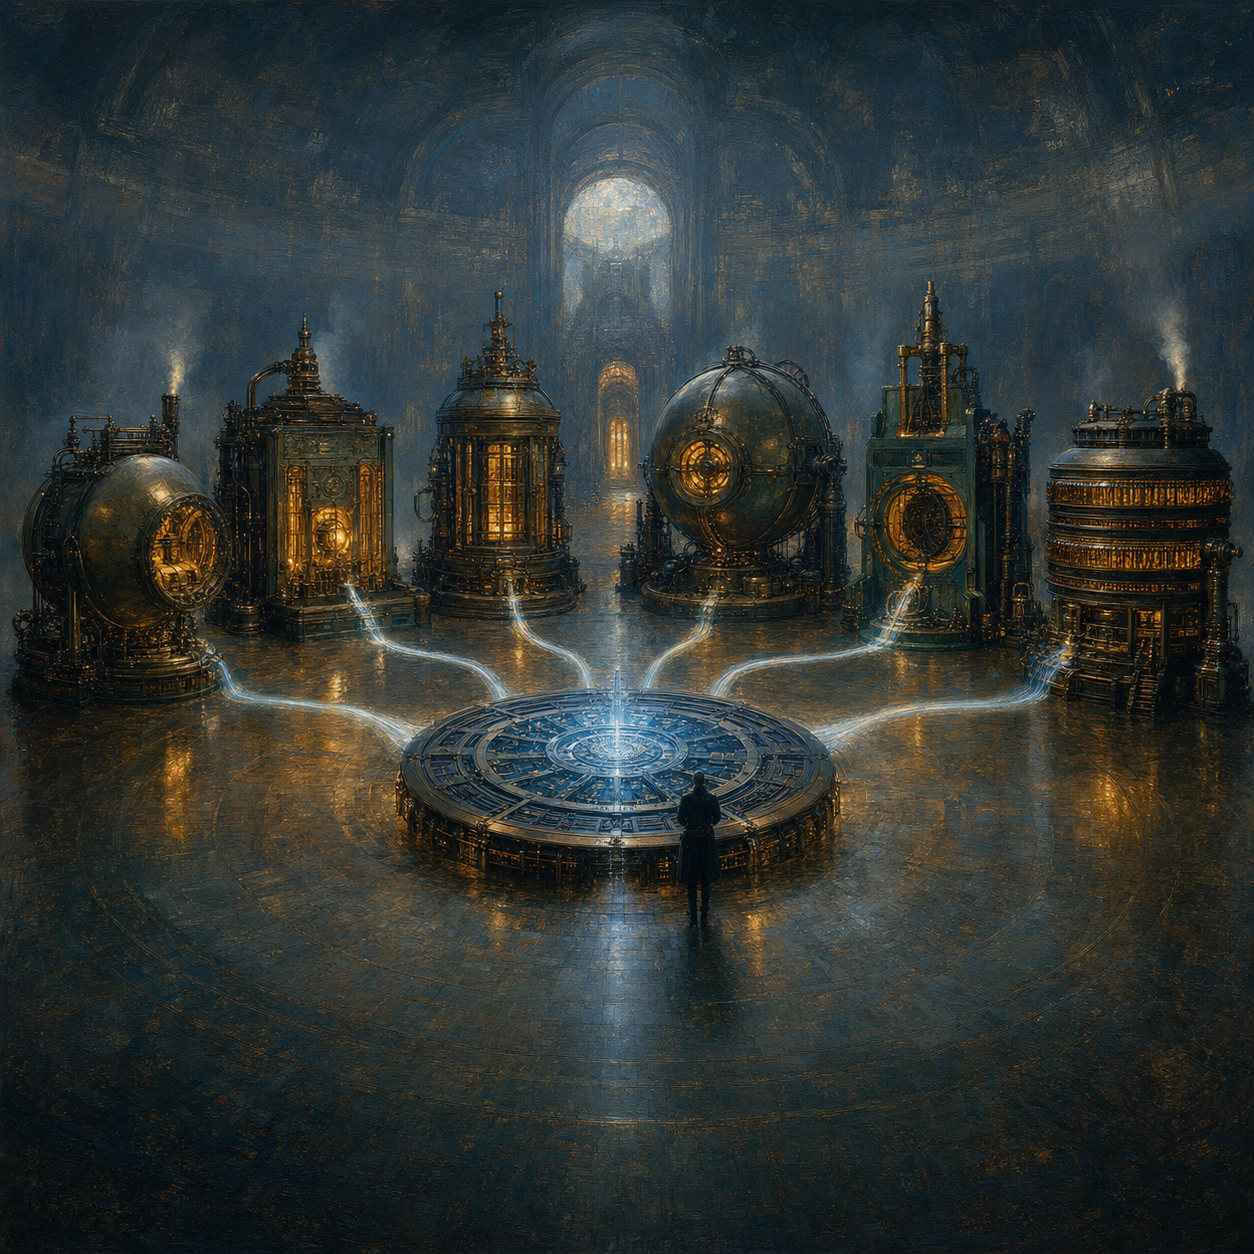
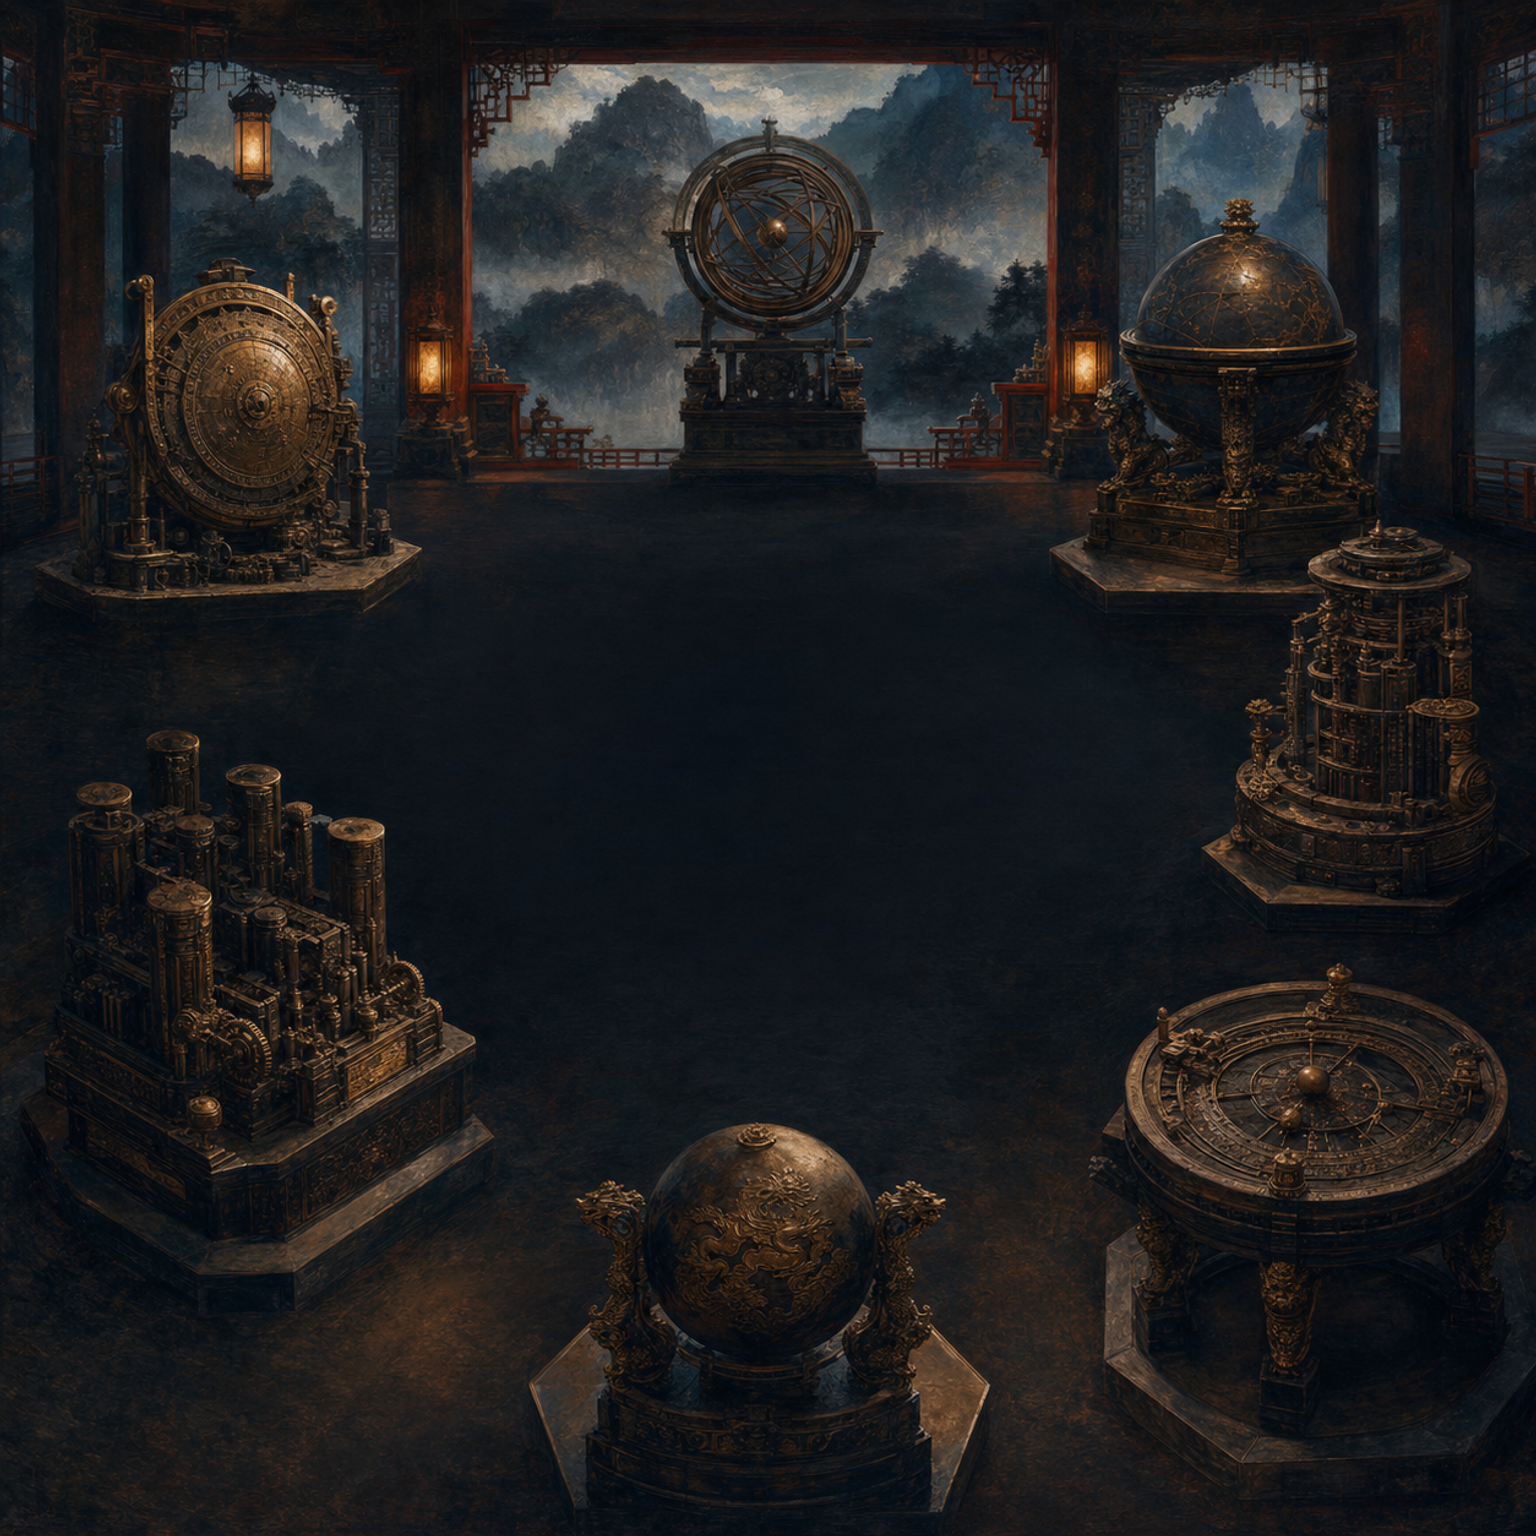
Refresh xLLM launch artwork and social assets

diff --git a/posts/social-media-xllm-cluster-architecture-ai-inference.md b/posts/social-media-xllm-cluster-architecture-ai-inference.md
@@ -1,0 +1,104 @@
+# Social Media Options: xLLM Cluster Architecture for AI Inference
+
+Article: https://ylanglabs.com/blogs/xllm-cluster-architecture-ai-inference
+Post image: `/static/images/blogs/xllm-cluster-architecture-ai-inference/postImage.png`
+
+## Option 1: Chinese accelerators as first-class targets
+
+Chinese AI accelerators are usually treated as ports from a CUDA-first world. xLLM starts there.
+
+It is designed for enterprise model serving across Ascend, Cambricon, Moore Threads, Hygon, MetaX, and Iluvatar, combining cluster-level control with hardware-specific execution.
+
+The interesting question is not whether xLLM is universally fastest. It is whether it can produce more SLO-compliant tokens from the hardware an enterprise already owns.
+
+Notes: https://ylanglabs.com/blogs/xllm-cluster-architecture-ai-inference
+
+## Option 2: The serving-economics thesis
+
+The cheapest generated token is not always the most useful metric.
+
+If more throughput pushes TTFT or TPOT outside the target, it does not improve production capacity. xLLM's economic thesis is that better scheduling, KV reuse, MoE balancing, and hardware-specific execution can lower the cost per SLO-compliant token.
+
+The paper measures throughput and latency, not money. That makes the architecture worth testing, not the economics proven.
+
+Deep dive: https://ylanglabs.com/blogs/xllm-cluster-architecture-ai-inference
+
+## Option 3: Put the 12x benchmark in context
+
+“12x throughput” sounds like a universal winner. It is not.
+
+xLLM's authors report an average 12x improvement over vLLM-Ascend for the tested DeepSeek-R1 configurations on 16 Ascend 910B accelerators. Change the backend, hardware, workload, or TPOT limit and the ranking may change.
+
+The useful lesson is bigger than one bar chart: every inference benchmark needs its operating conditions attached.
+
+The numbers and caveats: https://ylanglabs.com/blogs/xllm-cluster-architecture-ai-inference
+
+## Option 4: The architecture is the real story
+
+The most interesting part of xLLM is not a single kernel. It is the split between xLLM-Service and xLLM-Engine.
+
+The service layer sees the cluster, routes requests, tracks shared KV state, and plans capacity. Each engine owns device-local scheduling, memory, operators, and distributed execution.
+
+That separation is what makes dynamic prefill-decode placement and heterogeneous accelerator clusters practical.
+
+Architecture notes: https://ylanglabs.com/blogs/xllm-cluster-architecture-ai-inference
+
+## Option 5: There is no universally fastest inference engine
+
+There is no universally fastest LLM inference engine.
+
+vLLM is a broad default. SGLang is strong for prefix-heavy agent workloads. TensorRT-LLM fits NVIDIA-specific deployments. xLLM is built around Chinese AI accelerators and cluster-level control.
+
+Choose by model support, hardware, request mix, and SLO-bounded goodput. A larger throughput bar is not enough.
+
+Comparison: https://ylanglabs.com/blogs/xllm-cluster-architecture-ai-inference
+
+## Option 6: China is building an inference stack, not only GPUs
+
+China is not only building AI accelerators. It is building the inference software layer around them.
+
+vLLM and SGLang are common serving choices, but xLLM starts with Ascend, Cambricon, Moore Threads, Hygon, MetaX, and Iluvatar as first-class targets.
+
+That changes the optimization problem. The runtime can be designed around the memory, communication, and scheduling behavior of the hardware enterprises actually deploy.
+
+Notes: https://ylanglabs.com/blogs/xllm-cluster-architecture-ai-inference
+
+## Option 7: What comes after the Chinese GPU race
+
+The Chinese GPU race will not be decided by silicon alone.
+
+Teams still need an inference layer that can schedule requests, manage KV cache, balance MoE experts, and keep clusters inside latency targets. vLLM and SGLang solve much of this in the broader ecosystem. xLLM is building that layer around Chinese accelerators.
+
+The result is not just another engine. It is a different infrastructure default.
+
+Deep dive: https://ylanglabs.com/blogs/xllm-cluster-architecture-ai-inference
+
+## Option 8: xLLM changes the default hardware assumption
+
+Most LLM serving discussions begin with vLLM or SGLang and an NVIDIA GPU cluster.
+
+xLLM changes the starting assumption. It asks what enterprise inference should look like when Ascend, Cambricon, Moore Threads, Hygon, MetaX, and Iluvatar are the target hardware.
+
+That means hardware-specific operators, cluster-level scheduling, and KV movement designed around those accelerators from the beginning.
+
+Notes: https://ylanglabs.com/blogs/xllm-cluster-architecture-ai-inference
+
+## Option 9: DeepSeek inference on Ascend needs its own comparison
+
+If you are serving DeepSeek on Ascend, upstream vLLM benchmarks do not tell the whole story.
+
+xLLM's authors report an average 12x throughput improvement over vLLM-Ascend across the tested DeepSeek-R1 configurations on 16 Ascend 910B accelerators. SGLang was not included, and the result does not transfer automatically to other hardware.
+
+But it shows why Chinese GPU inference needs benchmarks built around the actual backend and cluster.
+
+The details: https://ylanglabs.com/blogs/xllm-cluster-architecture-ai-inference
+
+## Option 10: A new inference default is taking shape
+
+A different LLM inference stack is taking shape around Chinese accelerators.
+
+vLLM remains a broad default. SGLang is compelling for prefix-heavy and agent workloads. xLLM is making another bet: that Ascend and other Chinese AI chips need a serving framework built around their own execution, memory, and cluster constraints.
+
+It does not replace the others everywhere. It changes what the default can be.
+
+Comparison: https://ylanglabs.com/blogs/xllm-cluster-architecture-ai-inference

diff --git a/refs/xllm-cluster-architecture-ai-inference/README.md b/refs/xllm-cluster-architecture-ai-inference/README.md
@@ -132,6 +132,13 @@ Access date for all web sources: 2026-07-11.
 - Date: Continuously updated; reviewed 2026-07-11
 - Supports: TGI's maintenance-mode status and the maintainers' recommendation of vLLM, SGLang, and local engines for new deployments.
 
+### 19. Official xLLM logo asset
+
+- URL: https://github.com/xLLM-AI/xllm/blob/main/docs/assets/logo_with_llm.png
+- Publisher/author: xLLM project contributors
+- Date: Continuously updated; reviewed 2026-07-12
+- Supports: Official xLLM wordmark composited into the article's generated cover, header, card, and social post artwork.
+
 ## Claim boundaries
 
 - The xLLM benchmark results are author-reported and specific to the paper's model, version, hardware, topology, request lengths, and TPOT constraints.
